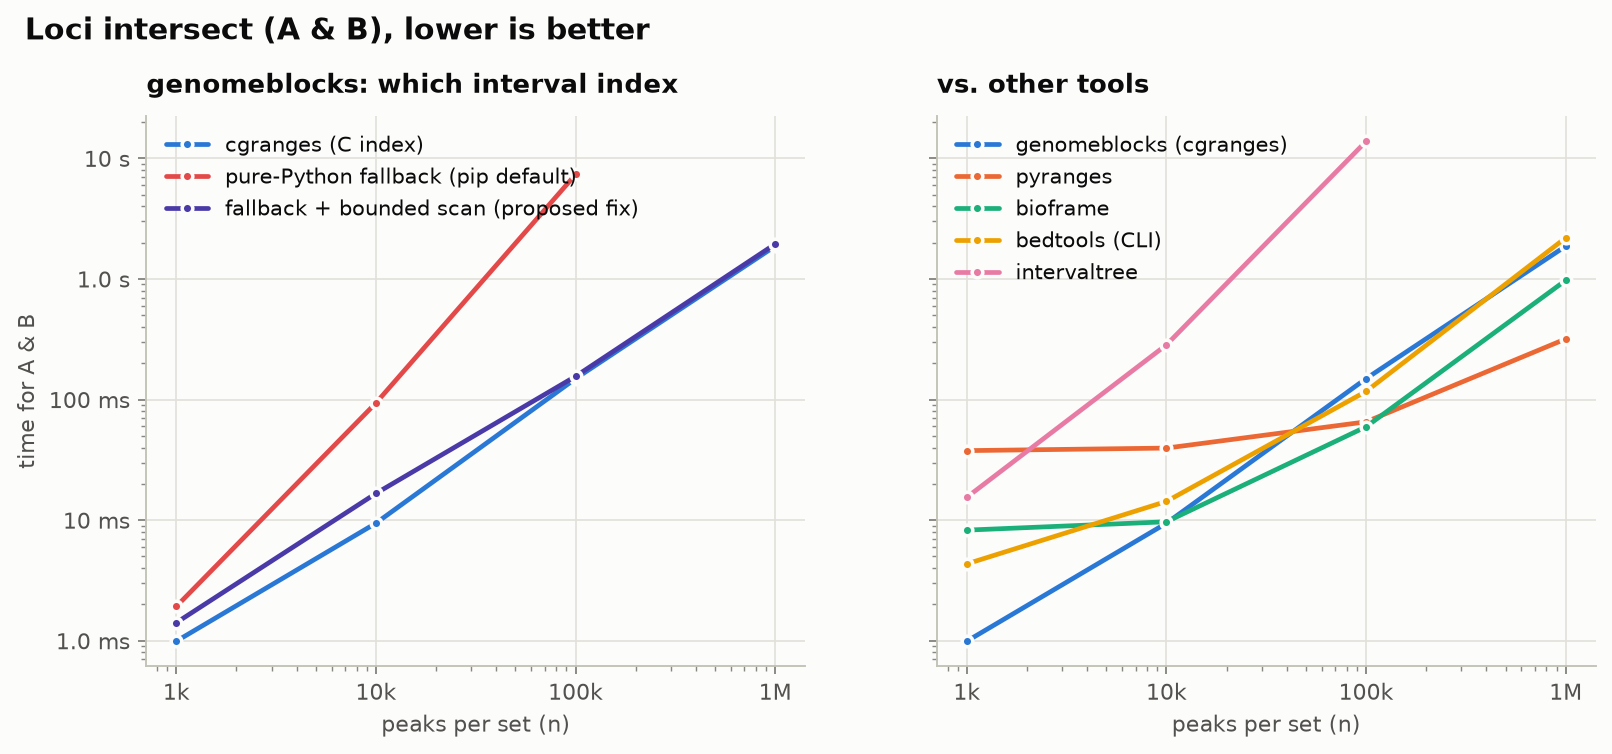
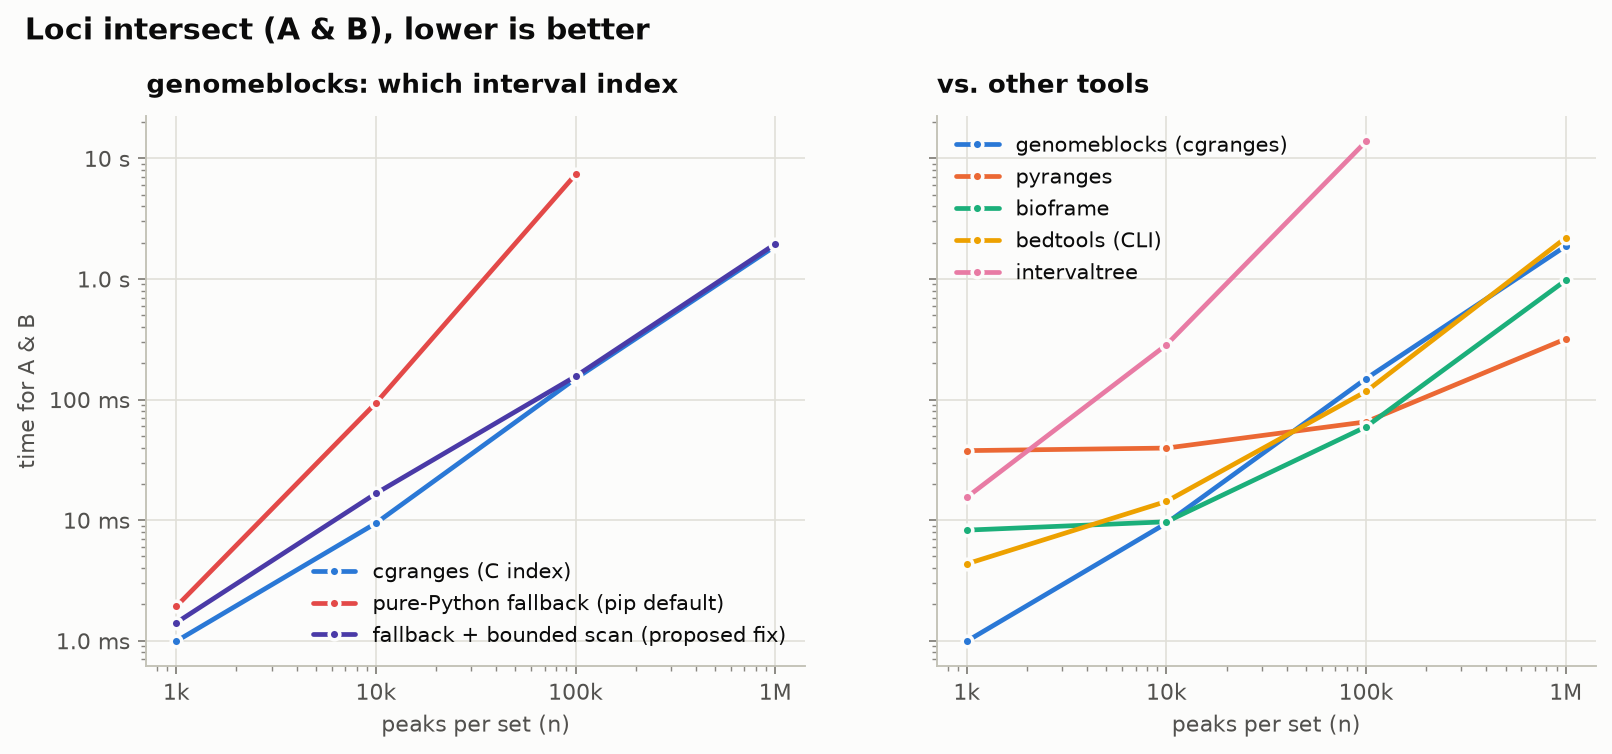
benchmarks: Hi-C pair results, measured count_pairs fix, figures
count_pairs (all partners) runs no faster than a per-pair loop and
count_pairs_2d is 12x slower than cooler cload; the fixes bench adds
integer-code / global-searchsorted versions with identical output.

Changed region(s): [[0.0931, 0.183, 0.4032, 0.305], [0.1861, 0.7321, 0.4963, 0.8541]]

diff --git a/benchmarks/build_report.py b/benchmarks/build_report.py
@@ -388,28 +388,52 @@ def build():
     if pa:
         pr_ = {r["engine"]: r for r in pa["rows"]}
         cp = pr_["genomeblocks count_pairs (50 kb x partner chrom)"]
+        ct = pr_["genomeblocks count_pairs (target_chrom=chr1)"]
         nv = pr_["naive per-pair loop (cgranges lookup)"]
         io = pr_["pandas chunked parse only (I/O floor)"]
         cl = pr_.get("cooler cload pairs (500 kb, CLI)")
         c2 = pr_.get("genomeblocks count_pairs_2d (500 kb)")
-        tiles.append(("Hi-C pair counting", f"{fnum(cp['rate'])}/s",
-                      f"read pairs binned per second; {fx(cp['rate'] / nv['rate'])} a per-pair Python loop", "#pairs", "purple", "bedpe"))
-        charts["pairs"] = {"kind": "hbar", "fmt": "num", "log": True, "sort": "desc", "labelW": 330,
-                           "axis": "read pairs per second (log scale)",
-                           "rows": [{"label": k, "value": r["rate"], "hl": k.startswith("genomeblocks")} for k, r in pr_.items()]}
+        fxp = load("fixes")
+        fp = {}
+        if fxp:
+            for r in fxp["rows"]:
+                if r.get("part") == "pairs":
+                    fp[(r["op"], "fast" if r["variant"] != "current" else "cur")] = r
+        f1 = fp.get(("count_pairs (50 kb x partner chrom)", "fast"))
+        f2 = fp.get(("count_pairs_2d (500 kb)", "fast"))
+        rows_ = [{"label": k, "value": r["rate"], "hl": k.startswith("genomeblocks")} for k, r in pr_.items()]
+        if f1:
+            rows_.append({"label": "count_pairs, integer-code fix (proposed)", "value": f1["n"] / f1["seconds"], "hl": True})
+        if f2:
+            rows_.append({"label": "count_pairs_2d, integer-code fix (proposed)", "value": f2["n"] / f2["seconds"], "hl": True})
+        charts["pairs"] = {"kind": "hbar", "fmt": "num", "log": True, "sort": "desc", "labelW": 340,
+                           "axis": "read pairs per second (log scale)", "rows": rows_}
         p_rows = [[k, f"{r['n_pairs']:,}", ftime(r["seconds"]), fnum(r["rate"])] for k, r in sorted(pr_.items(), key=lambda kv: -kv[1]["rate"])]
+        for lab, r in (("count_pairs, integer-code fix", f1), ("count_pairs_2d, integer-code fix", f2)):
+            if r:
+                p_rows.append([lab + (" (same output)" if r.get("same") else " (OUTPUT DIFFERS)"), f"{r['n']:,}",
+                               ftime(r["seconds"]), fnum(r["n"] / r["seconds"])])
+        if f1 and f2 and cl:
+            tiles.append(("Hi-C pair counting, with the fix", f"{fnum(f2['n'] / f2['seconds'])}/s",
+                          f"window × window matrix after a measured fix: {fx(c2['seconds'] / f2['seconds'])} faster than today and "
+                          f"{fx(cl['seconds'] / f2['seconds'])} faster than cooler cload (today it is {fx(c2['seconds'] / cl['seconds'])} slower)",
+                          "#pairs", "warn", "bedpe"))
         secs.append(f"""
 <section id="pairs">
   <span class="tag purple">bedpe · Hi-C pairs</span>
-  <h2>Hi-C pairs: whole chunks at a time</h2>
-  <p class="verdict"><code>count_pairs</code> bins 5M read pairs into 50 kb windows × partner chromosome at <b>{fnum(cp['rate'])} pairs/s</b>, {fx(cp['rate'] / nv['rate'])} faster than a per-pair loop{f' and {fx(c2["rate"] / cl["rate"])} the rate of cooler cload for the 2-D matrix' if cl and c2 else ''}.</p>
-  <p class="sub">The file is read in 2M-row chunks by pandas' C parser. Each chunk is split by chromosome with boolean masks, every position finds its window with one <code>np.searchsorted</code>, and hits are tallied with <code>np.add.at</code>, so no Python code runs per pair. Parsing alone runs at {fnum(io['rate'])} pairs/s, so {1 - cp['rate'] / io['rate']:.0%} of <code>count_pairs</code>' time is the counting and the rest is reading the file.</p>
+  <h2>Hi-C pairs: fast only for one chromosome today, with an easy fix</h2>
+  <p class="verdict">With a target chromosome, <code>count_pairs</code> runs at <b>{fnum(ct['rate'])} pairs/s</b>. Counting against every partner chromosome drops to {fnum(cp['rate'])}/s, no faster than a per-pair Python loop ({fnum(nv['rate'])}/s){f', and <code>count_pairs_2d</code> manages {fnum(c2["rate"])}/s, {fx(c2["seconds"] / cl["seconds"])} slower than cooler cload' if c2 and cl else ''}.</p>
+  <p class="sub">The file is parsed in 2M-row chunks by pandas' C reader at {fnum(io['rate'])} pairs/s, so reading is not the problem. The time goes to converting each chunk's categorical chromosome columns to Python strings and then comparing whole columns against every chromosome name, and in 2-D against every chromosome <em>pair</em> (23 × 23 × 2 full-chunk scans). Using the integer category codes, one <code>searchsorted</code> per anchor over genome-wide coordinates and a single <code>bincount</code> / sparse sum gives the same output{f' in {ftime(f1["seconds"])} ({fx(cp["seconds"] / f1["seconds"])}) and {ftime(f2["seconds"])} for the 2-D matrix ({fx(c2["seconds"] / f2["seconds"])})' if f1 and f2 else ''}.</p>
   {chart("pairs", "Pair counting", "· 5M pairs (naive loop: first 200k), higher is better",
-         f"The naive loop does one cgranges lookup per anchor and agrees exactly with <code>count_pairs</code> on the same pairs ({'match' if nv.get('agrees_with_count_pairs') else 'MISMATCH'}). cooler cload builds a full genome-wide 500 kb matrix; count_pairs_2d produces the same kind of window × window sparse matrix.")}
+         f"The naive loop does one cgranges lookup per anchor and agrees exactly with <code>count_pairs</code> on the same pairs ({'match' if nv.get('agrees_with_count_pairs') else 'MISMATCH'}). The fix rows are drop-in versions in <code>benchmarks/bench_fixes.py</code>, checked for identical output.")}
   {details("Pairs table", table(["engine", "pairs", "median", "pairs/s"], p_rows, num_cols=(1, 2, 3), hl=lambda r: r[0].startswith("genomeblocks")))}
 </section>""")
-        mech.append(("Vectorise the streaming loops", "#pairs",
-                     "Hi-C pairs are read in large chunks and located with <code>searchsorted</code> per chromosome; graph annotation runs as numpy over the edge array. Python never touches individual pairs or edges."))
+        if f1 and f2:
+            fixes.append(("count_pairs / count_pairs_2d compare chromosome strings per chunk",
+                          f"Each chunk's chromosome columns become Python strings and are compared against every chromosome (2-D: every chromosome pair). "
+                          f"With integer category codes and one global <code>searchsorted</code> per anchor: <code>count_pairs</code> {ftime(cp['seconds'])} → {ftime(f1['seconds'])}, "
+                          f"<code>count_pairs_2d</code> {ftime(c2['seconds'])} → {ftime(f2['seconds'])} on 5M pairs, identical output "
+                          f"({'checked' if f1.get('same') and f2.get('same') else 'CHECK FAILED'})."))
 
     # ── genes ──────────────────────────────────────────────────────────────
     ge = load("genes")
@@ -469,6 +493,8 @@ def build():
          f"Gray rows are comparisons: the stage-2 loop genomeblocks used to run, and graph-tool's native <code>incident_edges_op</code>, which computes the same node strengths {fx(stl['seconds'] / stg['seconds'])} faster than <code>strength()</code>'s per-edge Python loop (see <a href='#fixes'>fixes</a>).")}
   {details("Architecture table", table(["step", "median", "size", "check"], a_rows, num_cols=(1, 2)))}
 </section>""")
+        mech.append(("numpy over the graph's edge array", "#architecture",
+                     f"<code>annotate</code> pulls all edges and weights out of graph-tool as one array and picks each CRE's strongest promoter with a sort, {fx(s2l['seconds'] / s2v['seconds'])} faster than visiting neighbours vertex by vertex."))
         fixes.append(("Architecture.strength() and add_mcool() loop in Python",
                       f"<code>strength()</code> walks every edge in Python ({ftime(stl['seconds'])}); <code>gt.incident_edges_op(G, 'out', 'sum', G.ep[key])</code> returns the same sums in {ftime(stg['seconds'])}. <code>add_mcool</code> ({ftime(mc['seconds'])}) does a pandas MultiIndex lookup per edge; joining the edge bin pairs against the pixel table in one merge would follow the pattern <code>annotate</code> already uses."))
 

diff --git a/benchmarks/bench_fixes.py b/benchmarks/bench_fixes.py
@@ -86,6 +86,111 @@ def part_motifs(rec):
                 n=M, seconds=t["median"], runs=t["runs"], same=same)
 
 
+def _genome_index(loci):
+    """Windows on one genome-wide axis: chrom -> offset, sorted global
+    starts/ends, and the original loci index of each sorted window."""
+    import numpy as np
+    chroms = sorted({l.chrom for l in loci})
+    cid = {c: i for i, c in enumerate(chroms)}
+    span = np.zeros(len(chroms), np.int64)
+    for l in loci:
+        span[cid[l.chrom]] = max(span[cid[l.chrom]], l.end)
+    off = np.concatenate([[0], np.cumsum(span + 1)[:-1]])
+    gs = np.fromiter((off[cid[l.chrom]] + l.start for l in loci), np.int64, len(loci))
+    ge = np.fromiter((off[cid[l.chrom]] + l.end for l in loci), np.int64, len(loci))
+    order = np.argsort(gs, kind="stable")
+    return cid, off, gs[order], ge[order], order
+
+
+def _locate_global(codes, cats, pos, cid, off, gs, ge, order):
+    """Window index (original loci order) for each (chrom code, pos); -1 if none."""
+    import numpy as np
+    lut = np.array([cid.get(str(c), -1) for c in cats], np.int64)
+    c = lut[codes]
+    ok = c >= 0
+    g = np.where(ok, off[np.maximum(c, 0)] + pos, -1)
+    i = np.searchsorted(gs, g, side="right") - 1
+    ok &= i >= 0
+    ok &= g < ge[np.maximum(i, 0)]
+    return np.where(ok, order[np.maximum(i, 0)], -1)
+
+
+def count_pairs_fast(loci, path, chunksize=2_000_000):
+    """count_pairs (all partners) with integer chrom codes and one global
+    searchsorted per anchor; same output frame as genomeblocks'."""
+    import numpy as np
+    import pandas as pd
+    from genomeblocks.bedpe import read_pairs_chunks
+    cid, off, gs, ge, order = _genome_index(loci)
+    names, acc = {}, []
+    for ch in read_pairs_chunks(path, format="pairs", chunksize=chunksize):
+        for a, b in (("1", "2"), ("2", "1")):
+            ca, cb = ch["chrom" + a], ch["chrom" + b]
+            w = _locate_global(ca.cat.codes.to_numpy(), ca.cat.categories, ch["pos" + a].to_numpy(),
+                               cid, off, gs, ge, order)
+            p_lut = np.array([names.setdefault(str(c), len(names)) for c in cb.cat.categories], np.int64)
+            p = p_lut[cb.cat.codes.to_numpy()]
+            hit = w >= 0
+            acc.append((w[hit], p[hit]))
+    P = len(names)
+    w = np.concatenate([x for x, _ in acc]); p = np.concatenate([y for _, y in acc])
+    mat = np.bincount(w * P + p, minlength=len(loci) * P).reshape(len(loci), P)
+    out = pd.DataFrame({"chrom": [l.chrom for l in loci], "start": [l.start for l in loci],
+                        "end": [l.end for l in loci], "uid": [l.uid for l in loci]})
+    for name in sorted(names):
+        col = mat[:, names[name]]
+        if col.any():
+            out[name] = col
+    return out
+
+
+def count_pairs_2d_fast(loci, path, chunksize=2_000_000):
+    """count_pairs_2d (loci_b=None) the same way: one locate per anchor,
+    then a single sparse COO sum."""
+    import numpy as np
+    import scipy.sparse as sp
+    from genomeblocks.bedpe import read_pairs_chunks
+    cid, off, gs, ge, order = _genome_index(loci)
+    rows, cols = [], []
+    for ch in read_pairs_chunks(path, format="pairs", chunksize=chunksize):
+        w1 = _locate_global(ch["chrom1"].cat.codes.to_numpy(), ch["chrom1"].cat.categories,
+                            ch["pos1"].to_numpy(), cid, off, gs, ge, order)
+        w2 = _locate_global(ch["chrom2"].cat.codes.to_numpy(), ch["chrom2"].cat.categories,
+                            ch["pos2"].to_numpy(), cid, off, gs, ge, order)
+        ok = (w1 >= 0) & (w2 >= 0)
+        rows += [w1[ok], w2[ok]]; cols += [w2[ok], w1[ok]]
+    r = np.concatenate(rows); c = np.concatenate(cols)
+    n = len(loci)
+    m = sp.coo_matrix((np.ones(len(r), np.int64), (r, c)), shape=(n, n))
+    m.sum_duplicates()
+    return m.tocsr()
+
+
+def part_pairs(rec):
+    import numpy as np
+    from common import read_chromsizes
+    from genomeblocks.bedpe import count_pairs, count_pairs_2d
+    path = str(DATA / "hic.pairs")
+    cs = read_chromsizes()
+    w50, w500 = Loci.tile_genome(cs, 50_000), Loci.tile_genome(cs, 500_000)
+    res = {}
+    t = timeit(lambda: res.__setitem__("a", count_pairs(w50, path, format="pairs", verbose=False)), repeat=3)
+    rec.add(part="pairs", op="count_pairs (50 kb x partner chrom)", variant="current", n=5_000_000,
+            seconds=t["median"], runs=t["runs"])
+    t = timeit(lambda: res.__setitem__("b", count_pairs_fast(w50, path)), repeat=3)
+    same = list(res["a"].columns) == list(res["b"].columns) and res["a"].equals(res["b"])
+    rec.add(part="pairs", op="count_pairs (50 kb x partner chrom)", variant="integer codes + global searchsorted",
+            n=5_000_000, seconds=t["median"], runs=t["runs"], same=bool(same))
+    t = timeit(lambda: res.__setitem__("a", count_pairs_2d(w500, path, format="pairs", verbose=False)),
+               repeat=1, warmup=0)
+    rec.add(part="pairs", op="count_pairs_2d (500 kb)", variant="current", n=5_000_000,
+            seconds=t["median"], runs=t["runs"])
+    t = timeit(lambda: res.__setitem__("b", count_pairs_2d_fast(w500, path)), repeat=3)
+    same = (res["a"] != res["b"]).nnz == 0
+    rec.add(part="pairs", op="count_pairs_2d (500 kb)", variant="integer codes + global searchsorted",
+            n=5_000_000, seconds=t["median"], runs=t["runs"], same=bool(same))
+
+
 def part_loci(rec):
     for n in (100_000, 1_000_000):
         L = Loci.make(str(DATA / f"peaks_AB_{n}.bed"))     # 2n unsorted intervals
@@ -105,6 +210,6 @@ def part_loci(rec):
 if __name__ == "__main__":
     import sys
     rec = Recorder("fixes")
-    for part in (sys.argv[1:] or ["loci", "motifs"]):
+    for part in (sys.argv[1:] or ["loci", "motifs", "pairs"]):
         globals()[f"part_{part}"](rec)
     rec.save()

diff --git a/benchmarks/plot.py b/benchmarks/plot.py
@@ -65,6 +65,8 @@ def fmt_time(s):
 
 
 def fmt_num(x):
+    if x == 0:
+        return "0"
     for div, suf in ((1e9, "G"), (1e6, "M"), (1e3, "k")):
         if x >= div:
             v = x / div
